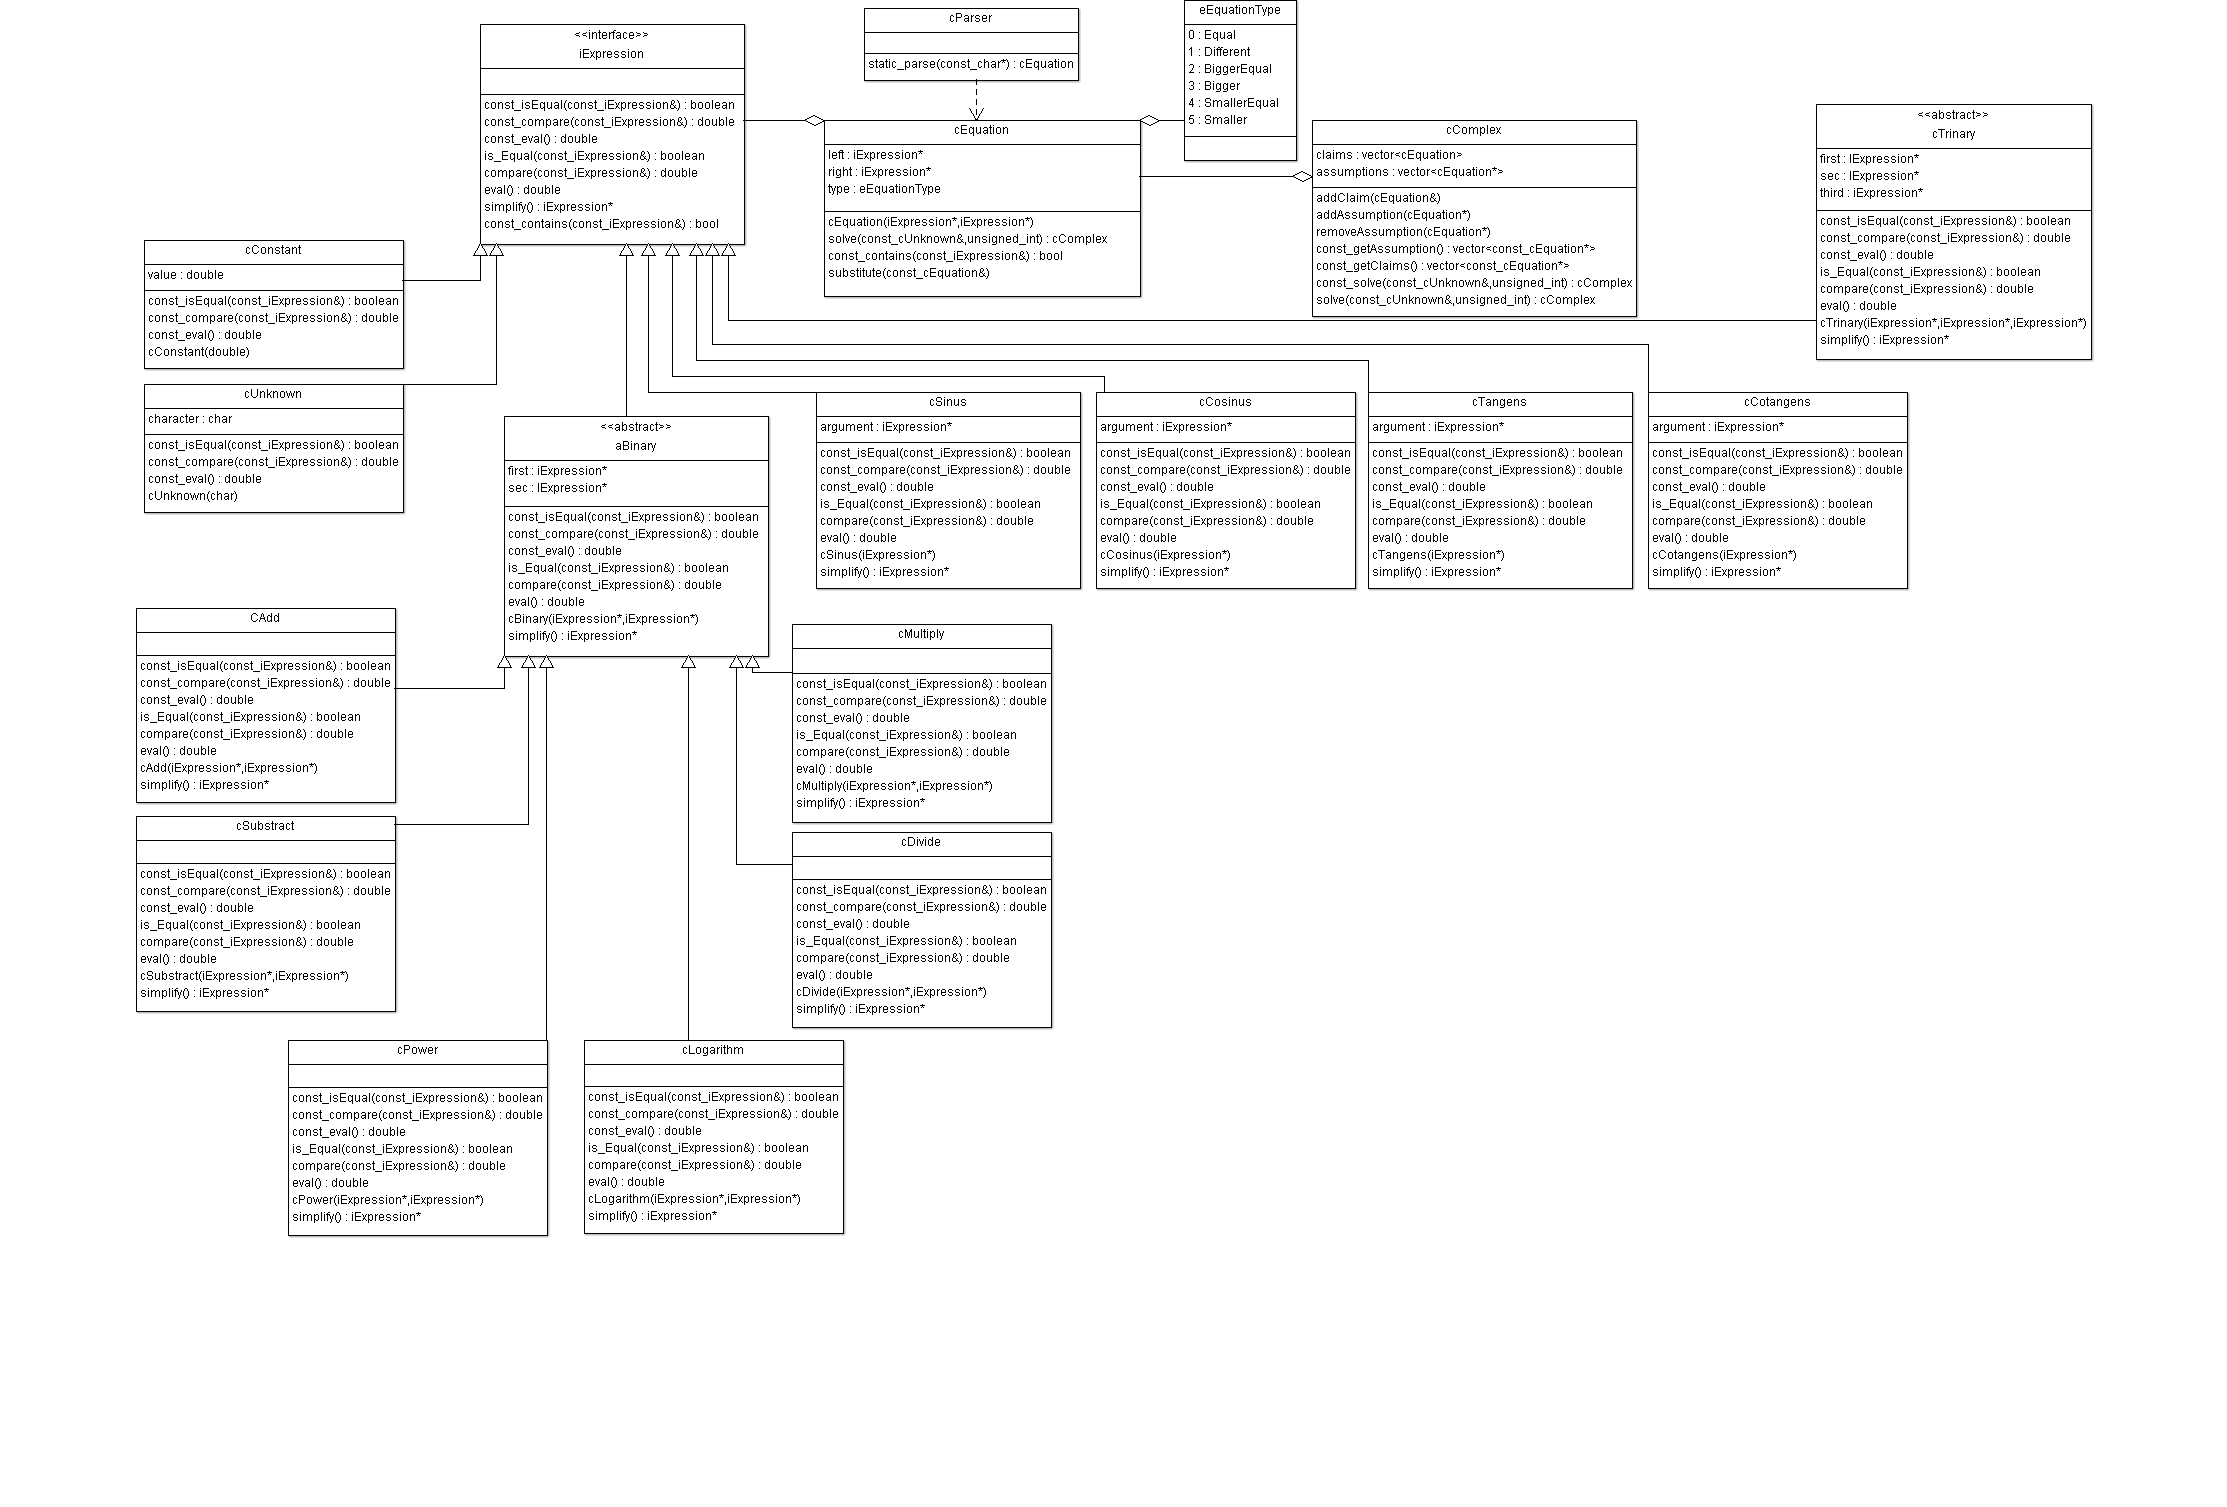
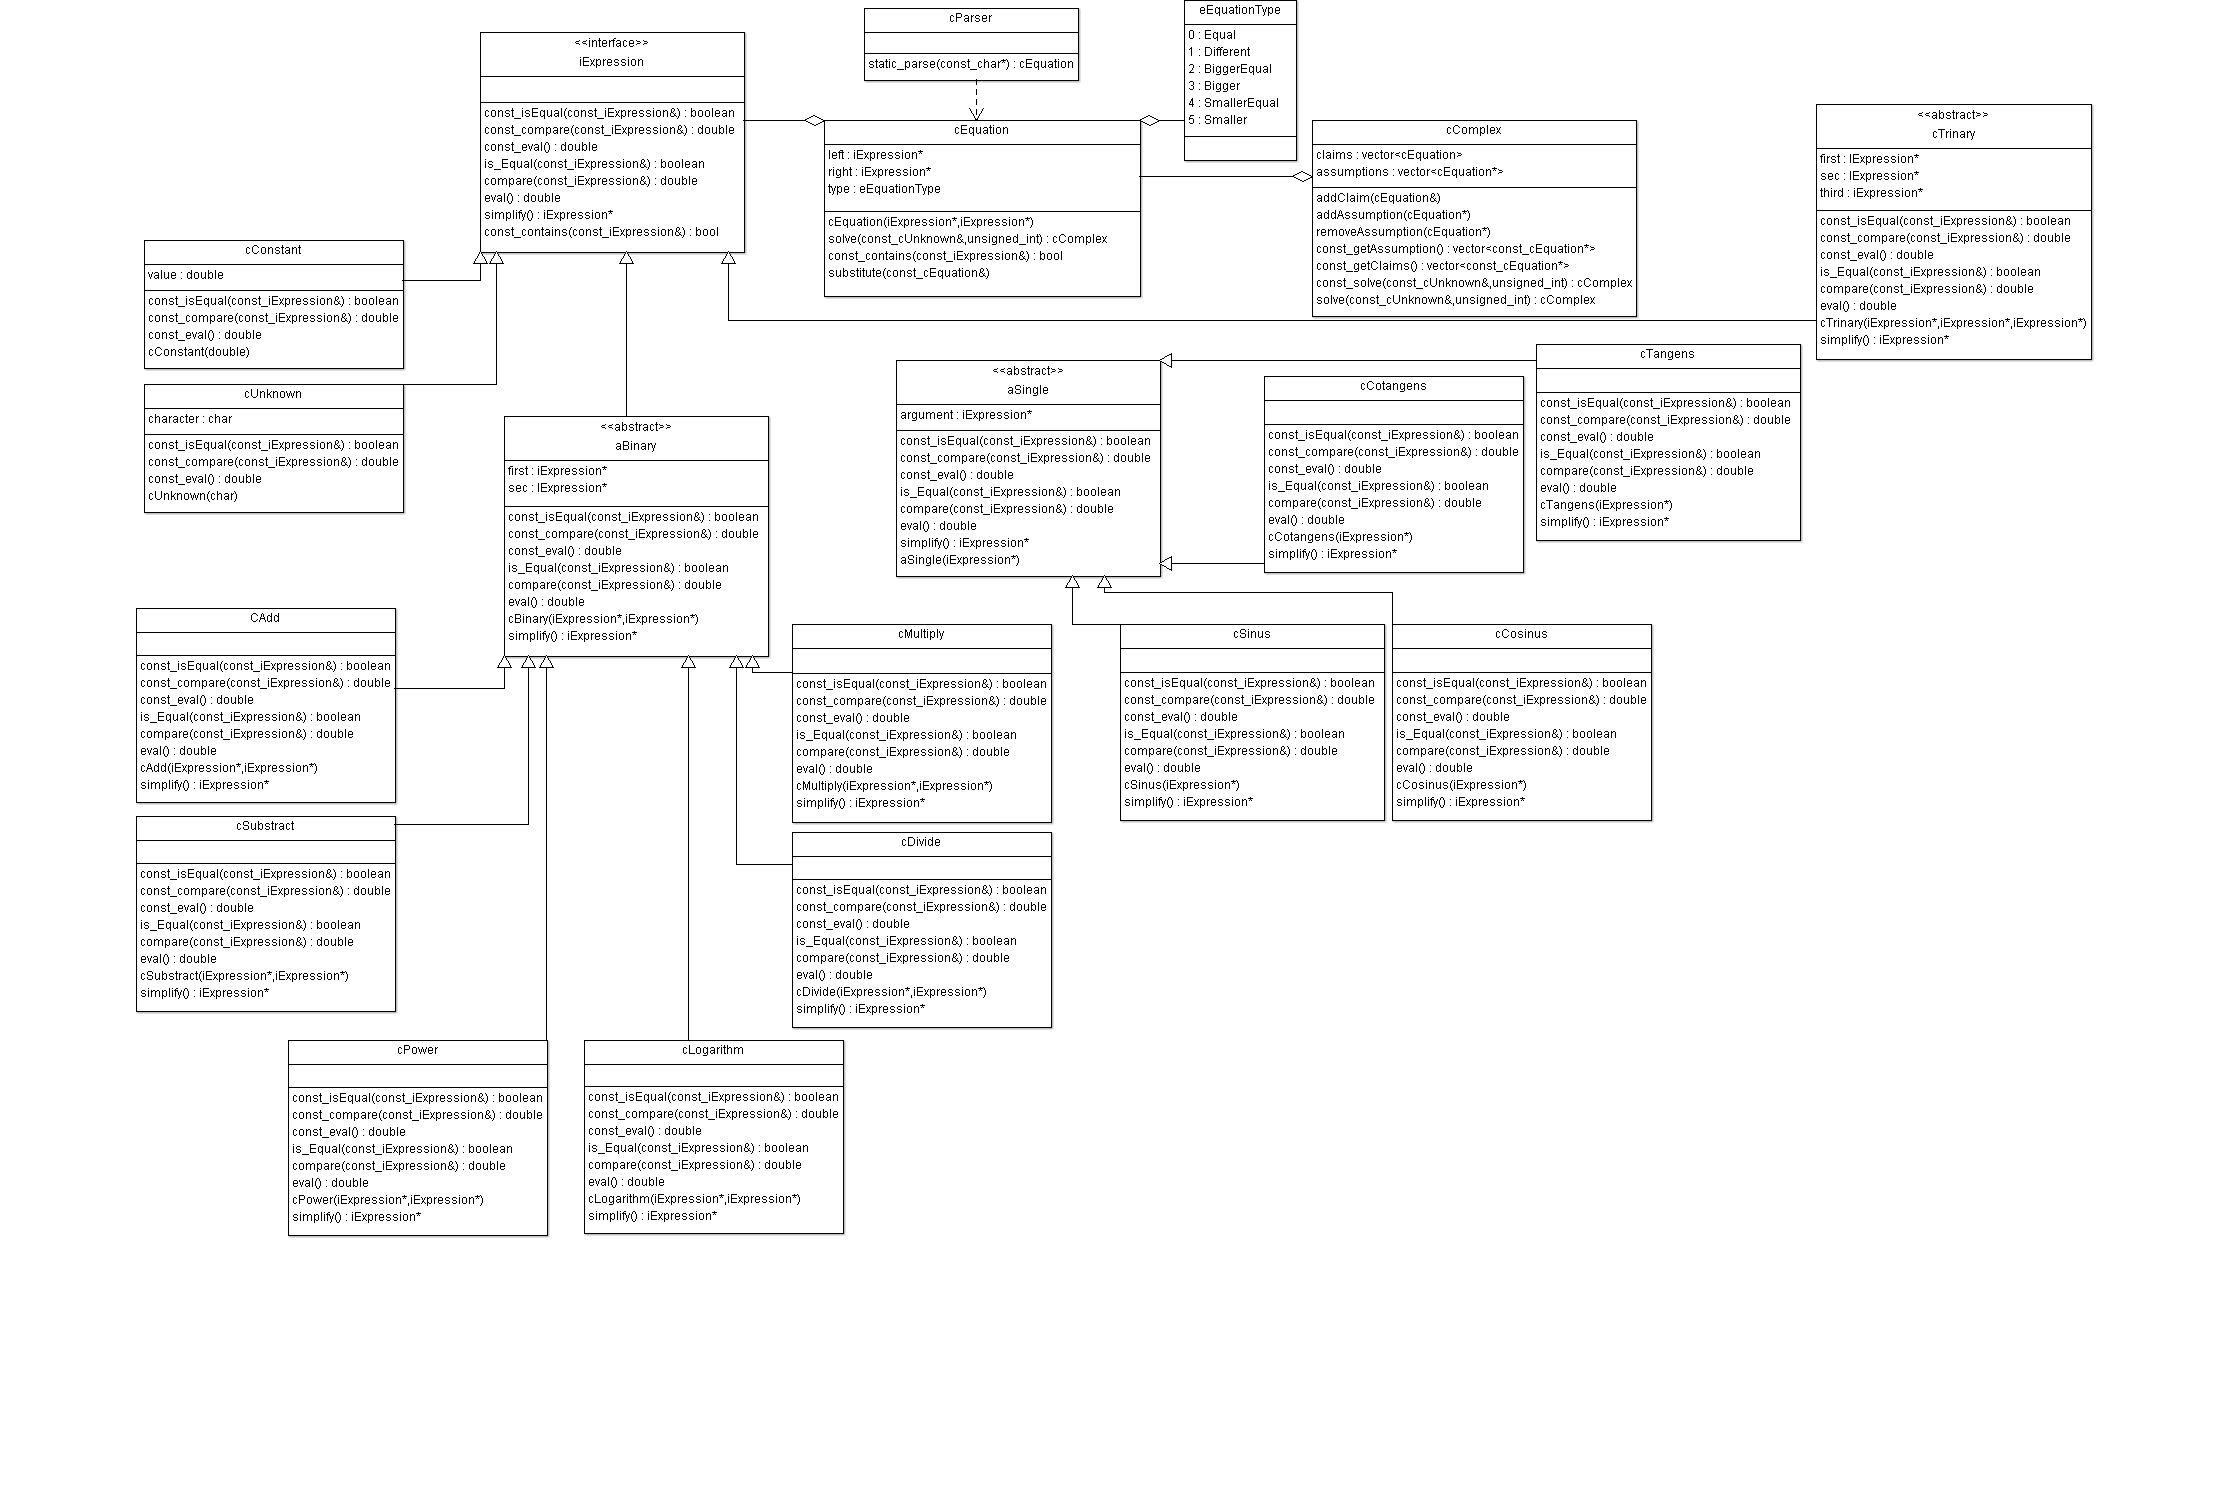
Interface commit
Added const simplify to iExpression interace, added aSimple abstract class to prototype. Implemented interfaces

diff --git a/defs/trinary/trinary.h b/defs/trinary/trinary.h
@@ -1,9 +1,32 @@
 #ifndef solver_trinary_trinary_h
 #define solver_trinary_trinary_h
 
+#include "../basics/expression.h"
+
 namespace solver
 {
+    class aTrinary : protected iExpression
+    {
+        protected:
+            iExpression *first, *sec, *thrd;
 
+        public:
+            aTrinary(iExpression *_first,iExpression *sec,iExpression *thrd);
+
+            virtual bool isEqual(const iExpression& arg)const =0;
+            virtual bool isEqual(const iExpression& arg)=0;
+
+            virtual double eval()const =0;
+            virtual double eval()=0;
+
+            virtual double compare(const iExpression& arg)const =0;
+            virtual double compare(const iExpression& arg)=0;
+
+            virtual iExpression* simplify()const =0;
+            virtual iExpression* simplify()=0;
+
+            virtual contains(const iExpression& arg);
+    };
 };
 
 #endif // solver_trinary_trinary_h

diff --git a/defs/single/single.h b/defs/single/single.h
@@ -1,17 +1,17 @@
-#ifndef solver_binary_binary_h
-#define solver_binary_binary_h
+#ifndef solver_single_single_h
+#define solver_single_single_h
 
 #include "../basics/expression.h"
 
 namespace solver
 {
-    class aBinary : protected iExpression
+    class aSingle : protected iExpression
     {
         protected:
-            iExpression *first, *sec;
+            iExpression *argument;
 
         public:
-            aBinary(iExpression* _first, iExpression* _sec);
+            aSingle(iExpression* _argument);
 
             virtual bool isEqual(const iExpression& arg)const =0;
             virtual bool isEqual(const iExpression& arg)=0;
@@ -29,4 +29,4 @@ namespace solver
     };
 };
 
-#endif // solver_binary_binary_h
+#endif // solver_single_single_h

diff --git a/defs/binary/substract.h b/defs/binary/substract.h
@@ -1,9 +1,27 @@
 #ifndef solver_binary_substract_h
 #define solver_binary_substract_h
 
+#include "binary.h"
+
 namespace solver
 {
+    class cSubstract : protected aBinary
+    {
+        public:
+            cSubstract(iExpression* _first, iExpression* _sec);
 
+            virtual bool isEqual(const iExpression& arg)const;
+            virtual bool isEqual(const iExpression& arg);
+
+            virtual double eval()const;
+            virtual double eval();
+
+            virtual double compare(const iExpression& arg)const;
+            virtual double compare(const iExpression& arg);
+
+            virtual iExpression* simplify()const;
+            virtual iExpression* simplify();
+    };
 };
 
 #endif // solver_binary_substract_h

diff --git a/defs/binary/multiply.h b/defs/binary/multiply.h
@@ -1,9 +1,27 @@
 #ifndef solver_binary_multiply_h
 #define solver_binary_multiply_h
 
+#include "binary.h"
+
 namespace solver
 {
+    class cMultiply : protected aBinary
+    {
+        public:
+            cMultiply(iExpression* _first, iExpression* _sec);
 
+            virtual bool isEqual(const iExpression& arg)const;
+            virtual bool isEqual(const iExpression& arg);
+
+            virtual double eval()const;
+            virtual double eval();
+
+            virtual double compare(const iExpression& arg)const;
+            virtual double compare(const iExpression& arg);
+
+            virtual iExpression* simplify()const;
+            virtual iExpression* simplify();
+    };
 };
 
 #endif // solver_binary_multiply_h

diff --git a/defs/binary/logarithm.h b/defs/binary/logarithm.h
@@ -1,9 +1,27 @@
 #ifndef solver_binary_logarithm_h
 #define solver_binary_logarithm_h
 
+#include "binary.h"
+
 namespace solver
 {
+    class cLogarithm : protected aBinary
+    {
+        public:
+            cLogarithm(iExpression* _first, iExpression* _sec);
 
+            virtual bool isEqual(const iExpression& arg)const;
+            virtual bool isEqual(const iExpression& arg);
+
+            virtual double eval()const;
+            virtual double eval();
+
+            virtual double compare(const iExpression& arg)const;
+            virtual double compare(const iExpression& arg);
+
+            virtual iExpression* simplify()const;
+            virtual iExpression* simplify();
+    };
 };
 
 #endif // solver_binary_all_h

diff --git a/defs/binary/divide.h b/defs/binary/divide.h
@@ -1,9 +1,27 @@
 #ifndef solver_binary_divide_h
 #define solver_binary_divide_h
 
+#include "binary.h"
+
 namespace solver
 {
+    class cDivide : protected aBinary
+    {
+        public:
+            cDivide(iExpression* _first, iExpression* _sec);
 
+            virtual bool isEqual(const iExpression& arg)const;
+            virtual bool isEqual(const iExpression& arg);
+
+            virtual double eval()const;
+            virtual double eval();
+
+            virtual double compare(const iExpression& arg)const;
+            virtual double compare(const iExpression& arg);
+
+            virtual iExpression* simplify()const;
+            virtual iExpression* simplify();
+    };
 };
 
 #endif // solver_binary_divide_h

diff --git a/defs/single/cotangens.h b/defs/single/cotangens.h
@@ -1,9 +1,27 @@
 #ifndef solver_single_cotangens_h
 #define solver_single_cotangens_h
 
+#include "single.h"
+
 namespace solver
 {
+    class cCotangens : protected aSingle
+    {
+        public:
+            cCotangens(iExpression* _argument);
 
+            virtual bool isEqual(const iExpression& arg)const;
+            virtual bool isEqual(const iExpression& arg);
+
+            virtual double eval()const;
+            virtual double eval();
+
+            virtual double compare(const iExpression& arg)const;
+            virtual double compare(const iExpression& arg);
+
+            virtual iExpression* simplify()const;
+            virtual iExpression* simplify();
+    };
 };
 
 #endif // solver_single_cotangens_h

diff --git a/defs/binary/power.h b/defs/binary/power.h
@@ -1,9 +1,27 @@
 #ifndef solver_binary_power_h
 #define solver_binary_power_h
 
+#include "binary.h"
+
 namespace solver
 {
+    class cPower : protected aBinary
+    {
+        public:
+            cPower(iExpression* _first, iExpression* _sec);
 
+            virtual bool isEqual(const iExpression& arg)const;
+            virtual bool isEqual(const iExpression& arg);
+
+            virtual double eval()const;
+            virtual double eval();
+
+            virtual double compare(const iExpression& arg)const;
+            virtual double compare(const iExpression& arg);
+
+            virtual iExpression* simplify()const;
+            virtual iExpression* simplify();
+    };
 };
 
 #endif // solver_binary_power_h

diff --git a/defs/single/cosinus.h b/defs/single/cosinus.h
@@ -1,9 +1,27 @@
 #ifndef solver_single_cosinus_h
 #define solver_single_cosinus_h
 
+#include "single.h"
+
 namespace solver
 {
+    class cCosinus : protected aSingle
+    {
+        public:
+            cCosinus(iExpression* _argument);
 
+            virtual bool isEqual(const iExpression& arg)const;
+            virtual bool isEqual(const iExpression& arg);
+
+            virtual double eval()const;
+            virtual double eval();
+
+            virtual double compare(const iExpression& arg)const;
+            virtual double compare(const iExpression& arg);
+
+            virtual iExpression* simplify()const;
+            virtual iExpression* simplify();
+    };
 };
 
 #endif // solver_single_cosinus_h

diff --git a/defs/single/tangens.h b/defs/single/tangens.h
@@ -1,9 +1,27 @@
 #ifndef solver_single_tangens_h
 #define solver_single_tangens_h
 
+#include "single.h"
+
 namespace solver
 {
+    class cTangens : protected aSingle
+    {
+        public:
+            cTangens(iExpression* _argument);
 
+            virtual bool isEqual(const iExpression& arg)const;
+            virtual bool isEqual(const iExpression& arg);
+
+            virtual double eval()const;
+            virtual double eval();
+
+            virtual double compare(const iExpression& arg)const;
+            virtual double compare(const iExpression& arg);
+
+            virtual iExpression* simplify()const;
+            virtual iExpression* simplify();
+    };
 };
 
 #endif // solver_single_tangens_h

diff --git a/defs/binary/add.h b/defs/binary/add.h
@@ -1,9 +1,27 @@
 #ifndef solver_binary_all_h
 #define solver_binary_all_h
 
+#include "binary.h"
+
 namespace solver
 {
+    class cAdd : protected aBinary
+    {
+        public:
+            cAdd(iExpression* _first, iExpression* _sec);
 
+            virtual bool isEqual(const iExpression& arg)const;
+            virtual bool isEqual(const iExpression& arg);
+
+            virtual double eval()const;
+            virtual double eval();
+
+            virtual double compare(const iExpression& arg)const;
+            virtual double compare(const iExpression& arg);
+
+            virtual iExpression* simplify()const;
+            virtual iExpression* simplify();
+    };
 };
 
 #endif // solver_binary_all_h

diff --git a/defs/single/sinus.h b/defs/single/sinus.h
@@ -1,9 +1,27 @@
 #ifndef solver_single_sinus_h
 #define solver_single_sinus_h
 
+#include "single.h"
+
 namespace solver
 {
+    class cSinus : protected aSingle
+    {
+        public:
+            cSinus(iExpression* _argument);
 
+            virtual bool isEqual(const iExpression& arg)const;
+            virtual bool isEqual(const iExpression& arg);
+
+            virtual double eval()const;
+            virtual double eval();
+
+            virtual double compare(const iExpression& arg)const;
+            virtual double compare(const iExpression& arg);
+
+            virtual iExpression* simplify()const;
+            virtual iExpression* simplify();
+    };
 };
 
 #endif // solver_single_sinus_h
